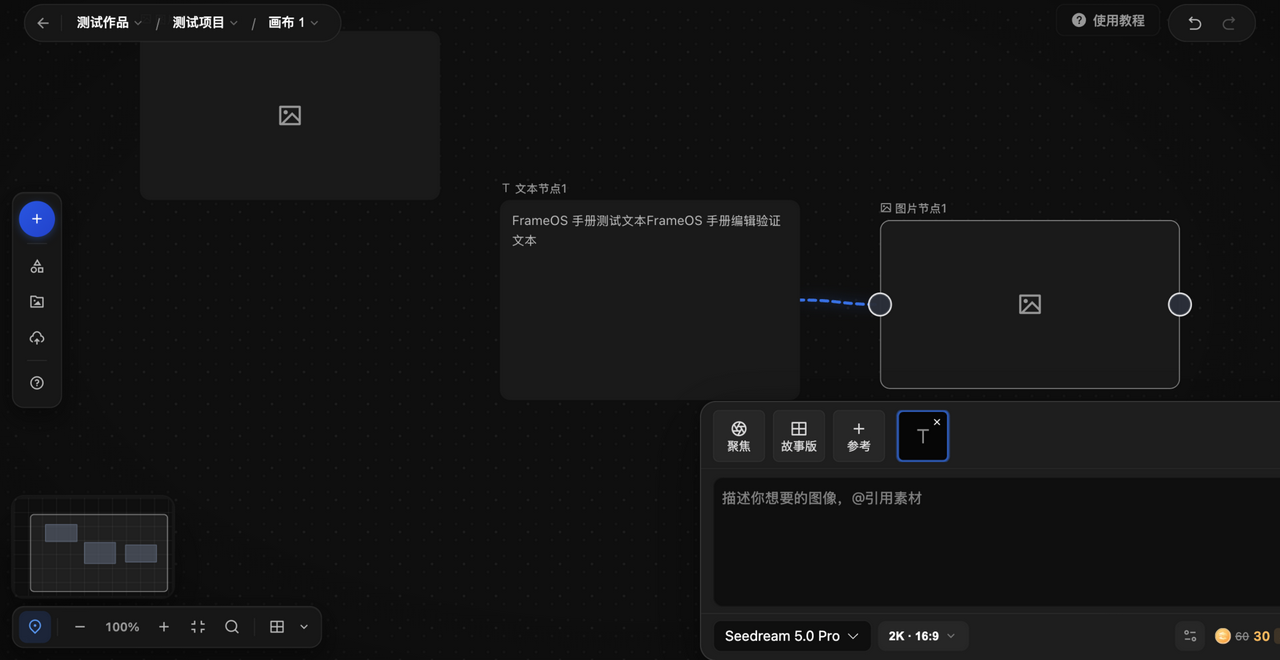
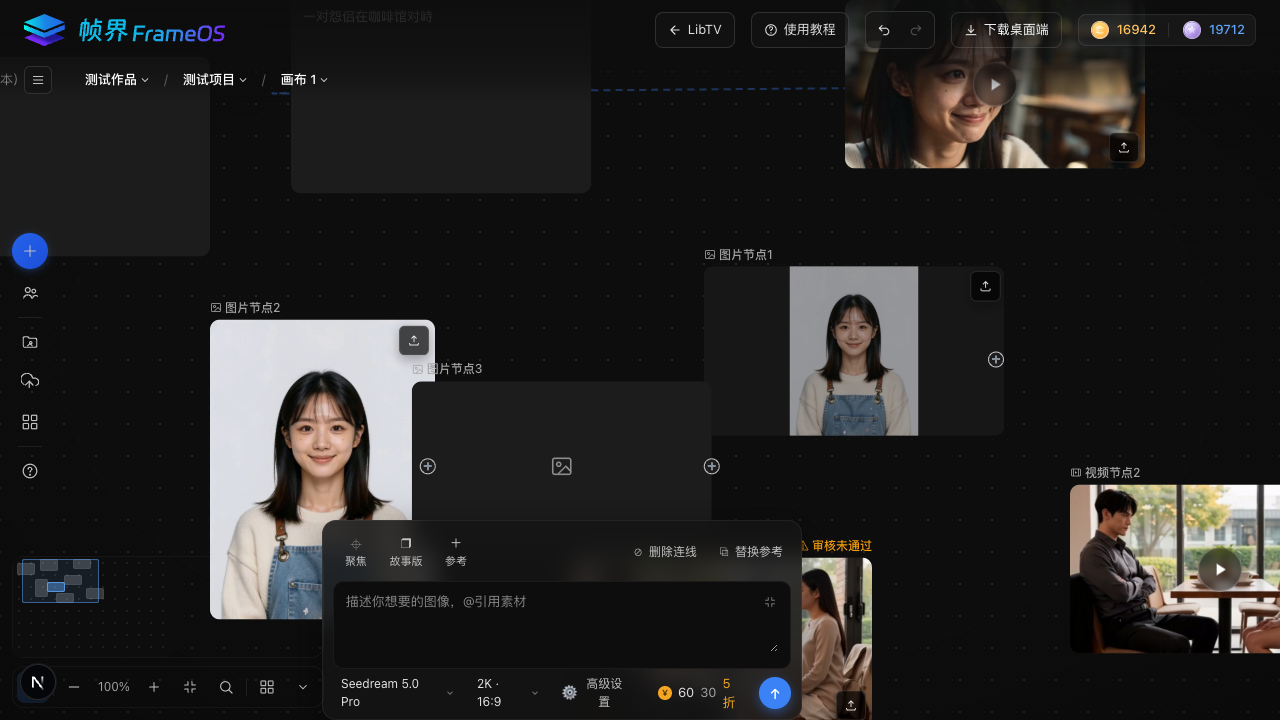
frameos batch 291: new image/video nodes are EMPTY per source creation flow (panel opens; content via upload/library/generation) — fixes prefilled-node fidelity gap; manual screenshots 08/09/11 re-shot + manifest rehash; batch238 setup updated; suite green

diff --git a/src/store/frameosStore.ts b/src/store/frameosStore.ts
@@ -415,8 +415,10 @@ export const useFrameosStore = create<FrameosCanvasState>((set, get) => ({
     const id = `${type}-${Date.now()}-${++addNodeIdCounter}`;
     const typeMeta: Record<string, { title: string; w: number; h: number; emoji: string; imageUrl?: string }> = {
       text: { title: "文本", w: 300, h: 200, emoji: "T" },
-      image: { title: "图片", w: 300, h: 169, emoji: "🖼", imageUrl: "/images/frameos/node-image-1.png" },
-      video: { title: "视频", w: 300, h: 169, emoji: "🎬", imageUrl: "/images/frameos/node-vid-cover-1.jpg" },
+      // Batch 291: 新建图片/视频为**空节点**（源站实测: 创建后自动选中并展开提示
+      // 词面板, 内容经上传/素材库/生成填入）, 不再预置示例图
+      image: { title: "图片", w: 300, h: 169, emoji: "🖼" },
+      video: { title: "视频", w: 300, h: 169, emoji: "🎬" },
       character: { title: "角色", w: 200, h: 240, emoji: "👤" },
       scene: { title: "场景", w: 300, h: 200, emoji: "🎬" },
       audio: { title: "音频", w: 300, h: 80, emoji: "🎵" },

diff --git a/scripts/verify-frameos-batch238.py b/scripts/verify-frameos-batch238.py
@@ -88,7 +88,9 @@ def run_desktop(page: Page) -> dict[str, Any]:
     page.evaluate(
         """(() => {
           const s = window.__frameos_store.getState();
-          s.addNode('video', { panX: 0, panY: 0, zoom: 1, viewportWidth: 1440, viewportHeight: 900 });
+          const id = s.addNode('video', { panX: 0, panY: 0, zoom: 1, viewportWidth: 1440, viewportHeight: 900 });
+          // Batch 291: 新建视频为空节点 — 注入内容使其成为内容视频
+          s.updateNodeData(id, { imageUrl: '/images/frameos/node-vid-cover-1.jpg' });
         })()"""
     )
     page.wait_for_timeout(500)
